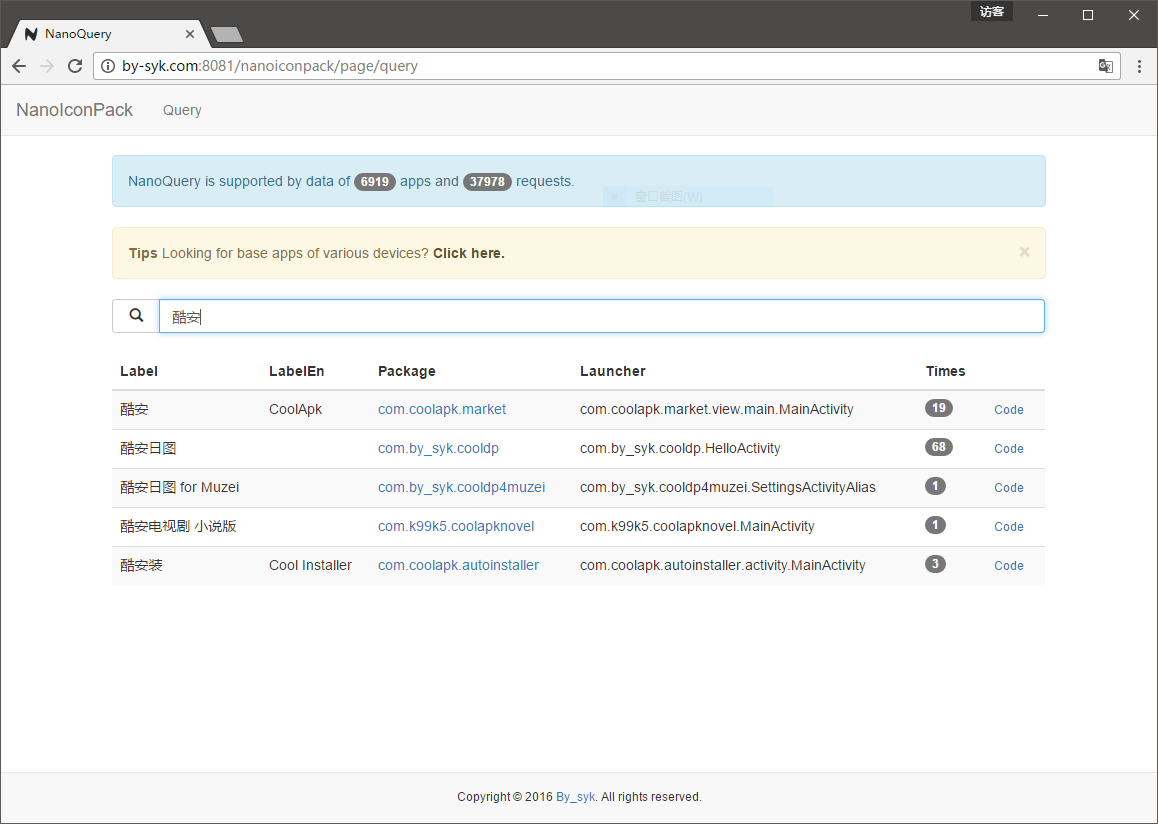
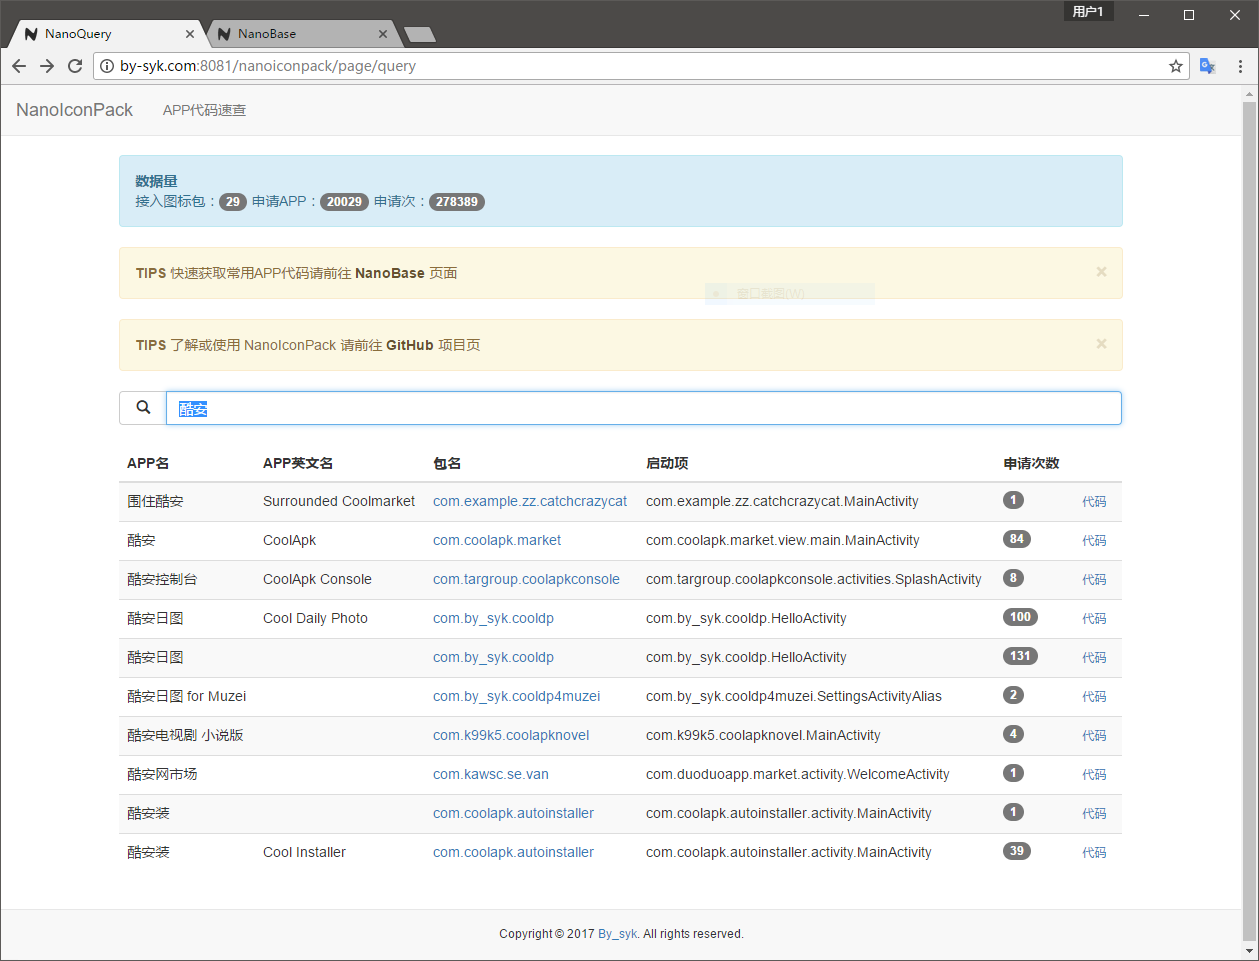
v3.0.0.nightly

diff --git a/server/nodejs/nano8082.js b/server/nodejs/nano8082.js
@@ -119,15 +119,16 @@ var sqlCmds = {
   sumByIpP: 'SELECT COUNT(*) AS num FROM req WHERE icon_pack = ? AND pkg = ?',
   sumByIpPDi: 'SELECT device_id, COUNT(*) AS num FROM req WHERE icon_pack = ? AND pkg = ? GROUP BY device_id = ?',
   reqTopFilterMarked: 'SELECT label, pkg, COUNT(*) AS sum, 0 AS filter FROM req AS r WHERE icon_pack = ? AND pkg NOT IN (SELECT pkg FROM req_filter AS rf WHERE rf.icon_pack = r.icon_pack AND user = ?) GROUP BY pkg ORDER BY sum DESC, pkg ASC LIMIT ?',
-  // reqTopFilterMarked2: 'SELECT label, pkg, launcher, COUNT(*) AS sum, 0 AS filter FROM req AS r WHERE icon_pack = ? AND CONCAT(pkg, \'/\', launcher) NOT IN (SELECT CONCAT(pkg, \'/\', launcher) FROM req_filter AS rf WHERE rf.icon_pack = r.icon_pack AND user = ?) GROUP BY pkg, launcher ORDER BY sum DESC, pkg ASC LIMIT ?',
+  //reqTopFilterMarked2: 'SELECT label, pkg, launcher, COUNT(*) AS sum, 0 AS filter FROM req AS r WHERE icon_pack = ? AND CONCAT(pkg, \'/\', launcher) NOT IN (SELECT CONCAT(pkg, \'/\', launcher) FROM req_filter AS rf WHERE rf.icon_pack = r.icon_pack AND user = ?) GROUP BY pkg, launcher ORDER BY sum DESC, pkg ASC LIMIT ?',
   reqTopFilterMarked2: 'SELECT r.label, r.pkg, r.launcher, r.sum, r.filter FROM (SELECT label, pkg, launcher, COUNT(*) AS sum, 0 AS filter FROM req WHERE icon_pack = ? GROUP BY pkg, launcher) AS r LEFT JOIN (SELECT pkg, launcher FROM req_filter WHERE icon_pack = ? AND user = ? AND launcher <> \'\') AS rf ON r.pkg = rf.pkg AND r.launcher = rf.launcher WHERE rf.pkg IS NULL ORDER BY r.sum DESC, r.pkg ASC LIMIT ?',
   reqTopOnlyMarked: 'SELECT label, pkg, COUNT(*) AS sum, 1 AS filter FROM req AS r WHERE icon_pack = ? AND pkg IN (SELECT pkg FROM req_filter AS rf WHERE rf.icon_pack = r.icon_pack AND user = ?) GROUP BY pkg ORDER BY sum DESC, pkg ASC',
-  // reqTopOnlyMarked2: 'SELECT label, pkg, launcher, COUNT(*) AS sum, 1 AS filter FROM req AS r WHERE icon_pack = ? AND CONCAT(pkg, \'/\', launcher) IN (SELECT CONCAT(pkg, \'/\', launcher) FROM req_filter AS rf WHERE rf.icon_pack = r.icon_pack AND user = ?) GROUP BY pkg, launcher ORDER BY sum DESC, pkg ASC',
+  //reqTopOnlyMarked2: 'SELECT label, pkg, launcher, COUNT(*) AS sum, 1 AS filter FROM req AS r WHERE icon_pack = ? AND CONCAT(pkg, \'/\', launcher) IN (SELECT CONCAT(pkg, \'/\', launcher) FROM req_filter AS rf WHERE rf.icon_pack = r.icon_pack AND user = ?) GROUP BY pkg, launcher ORDER BY sum DESC, pkg ASC',
   reqTopOnlyMarked2: 'SELECT r.label, r.pkg, r.launcher, COUNT(*) AS sum, 1 AS filter FROM req AS r INNER JOIN req_filter AS rf ON r.icon_pack = rf.icon_pack AND r.pkg = rf.pkg AND r.launcher = rf.launcher WHERE r.icon_pack = ? AND rf.user = ? GROUP BY r.pkg, r.launcher ORDER BY sum DESC, r.pkg ASC',
   reqTop: 'SELECT label, pkg, COUNT(*) AS sum, 1 AS filter FROM req WHERE icon_pack = ? GROUP BY pkg ORDER BY sum DESC, pkg ASC LIMIT ?',
   reqTop2: 'SELECT label, pkg, launcher, COUNT(*) AS sum, 1 AS filter FROM req WHERE icon_pack = ? GROUP BY pkg, launcher ORDER BY sum DESC, pkg ASC LIMIT ?',
   reqFilter: 'INSERT IGNORE INTO req_filter(icon_pack, user, pkg, launcher) VALUES(?, ?, ?, ?)',
-  reqUndoFilter: 'DELETE FROM req_filter WHERE icon_pack = ? AND user = ? AND pkg = ? AND launcher = ?',
+  reqUndoFilter: 'DELETE FROM req_filter WHERE icon_pack = ? AND user = ? AND pkg = ?',
+  reqUndoFilter2: 'DELETE FROM req_filter WHERE icon_pack = ? AND user = ? AND pkg = ? AND launcher = ?',
   queryByPkg: 'SELECT label, label_en AS labelEn, pkg, launcher, icon, COUNT(*) AS sum FROM req WHERE pkg = ? GROUP BY label, label_en, launcher',
   queryByLabel: 'SELECT label, label_en AS labelEn, pkg, launcher, icon, COUNT(*) AS sum FROM req WHERE label LIKE ? OR label_en LIKE ? GROUP BY label, label_en, launcher LIMIT 128',
   queryByPkgLauncher: 'SELECT label, label_en AS labelEn, pkg, launcher, icon FROM req WHERE pkg = ? AND launcher = ? GROUP BY label, label_en',
@@ -418,8 +419,14 @@ app.delete('/nanoiconpack/reqfilter/:iconpack([A-Za-z\\d\._]+)/:user', function(
     return;
   }
   var launcher = req.query.launcher;
-  var sqlOptions = [iconPack, user, pkg, launcher];
-  query(sqlCmds.reqUndoFilter, sqlOptions, function(err, rows) {
+  if (!launcher) { // 兼容旧版本
+    sqlCmd = sqlCmds.reqUndoFilter;
+    sqlOptions = [iconPack, user, pkg];
+  } else {
+    sqlCmd = sqlCmds.reqUndoFilter2;
+    sqlOptions = [iconPack, user, pkg, launcher];
+  }
+  query(sqlCmd, sqlOptions, function(err, rows) {
     if (err) {
       logger.warn(err);
       res.jsonp(utils.getResRes(3));
@@ -575,7 +582,7 @@ app.get('/nanoiconpack/base', function(req, res) {
 // 接口：看门狗
 app.get('/nanoiconpack/watchdog', function(req, res) {
   logger.info('GET /nanoiconpack/watchdog');
-  
+
   res.jsonp(utils.getResRes(0, undefined, {
     port: serverPort,
     time: Date.now()
@@ -621,7 +628,7 @@ var server = app.listen(serverPort, function() {
   if (host == '::') {
     host = 'localhost';
   }
-  
+
   logger.info('http://%s:%s/nanoiconpack/', host, port);
 });
 

diff --git a/nanoiconpack/src/main/java/com/by_syk/lib/nanoiconpack/MainActivity.java b/nanoiconpack/src/main/java/com/by_syk/lib/nanoiconpack/MainActivity.java
@@ -25,9 +25,11 @@ import android.support.v4.app.Fragment;
 import android.support.v4.app.FragmentManager;
 import android.support.v4.app.FragmentPagerAdapter;
 import android.support.v4.view.ViewPager;
+import android.support.v4.view.animation.FastOutSlowInInterpolator;
 import android.support.v7.app.AppCompatActivity;
 import android.view.Menu;
 import android.view.MenuItem;
+import android.view.MotionEvent;
 
 import com.by_syk.lib.nanoiconpack.dialog.ApplyDialog;
 import com.by_syk.lib.nanoiconpack.fragment.AppsFragment;
@@ -38,6 +40,8 @@ import com.by_syk.lib.nanoiconpack.util.MatchedIconsGetter;
 import com.by_syk.lib.nanoiconpack.util.PkgUtil;
 import com.by_syk.lib.nanoiconpack.util.SimplePageTransformer;
 import com.by_syk.lib.storage.SP;
+
+import uk.co.samuelwall.materialtaptargetprompt.MaterialTapTargetPrompt;
 
 /**
  * Created by By_syk on 2016-07-16.
@@ -116,6 +120,38 @@ public class MainActivity extends AppCompatActivity
         // Set the default page to show.
         // 0: Lost, 1: Matched 2. All
         viewPager.setCurrentItem(1);
+
+        bottomNavigationView.postDelayed(new Runnable() {
+            @Override
+            public void run() {
+                showReqPrompt();
+            }
+        }, 2000);
+    }
+
+    public void showReqPrompt() {
+        if (sp.getBoolean("hintReq")) {
+            return;
+        }
+
+        (new MaterialTapTargetPrompt.Builder(this))
+                .setTarget(bottomNavigationView.findViewById(R.id.nav_lost))
+                .setPrimaryText(getString(R.string.prompt_req))
+                .setSecondaryText(getString(R.string.prompt_req_desc))
+                .setBackgroundColourFromRes(R.color.color_primary)
+                .setAutoDismiss(false)
+                .setCaptureTouchEventOutsidePrompt(true)
+                .setAnimationInterpolator(new FastOutSlowInInterpolator())
+                .setOnHidePromptListener(new MaterialTapTargetPrompt.OnHidePromptListener() {
+                    @Override
+                    public void onHidePrompt(MotionEvent event, boolean tappedTarget) {}
+
+                    @Override
+                    public void onHidePromptComplete() {
+                        sp.save("hintReq", true);
+                    }
+                })
+                .show();
     }
 
     private void enterConsole() {
